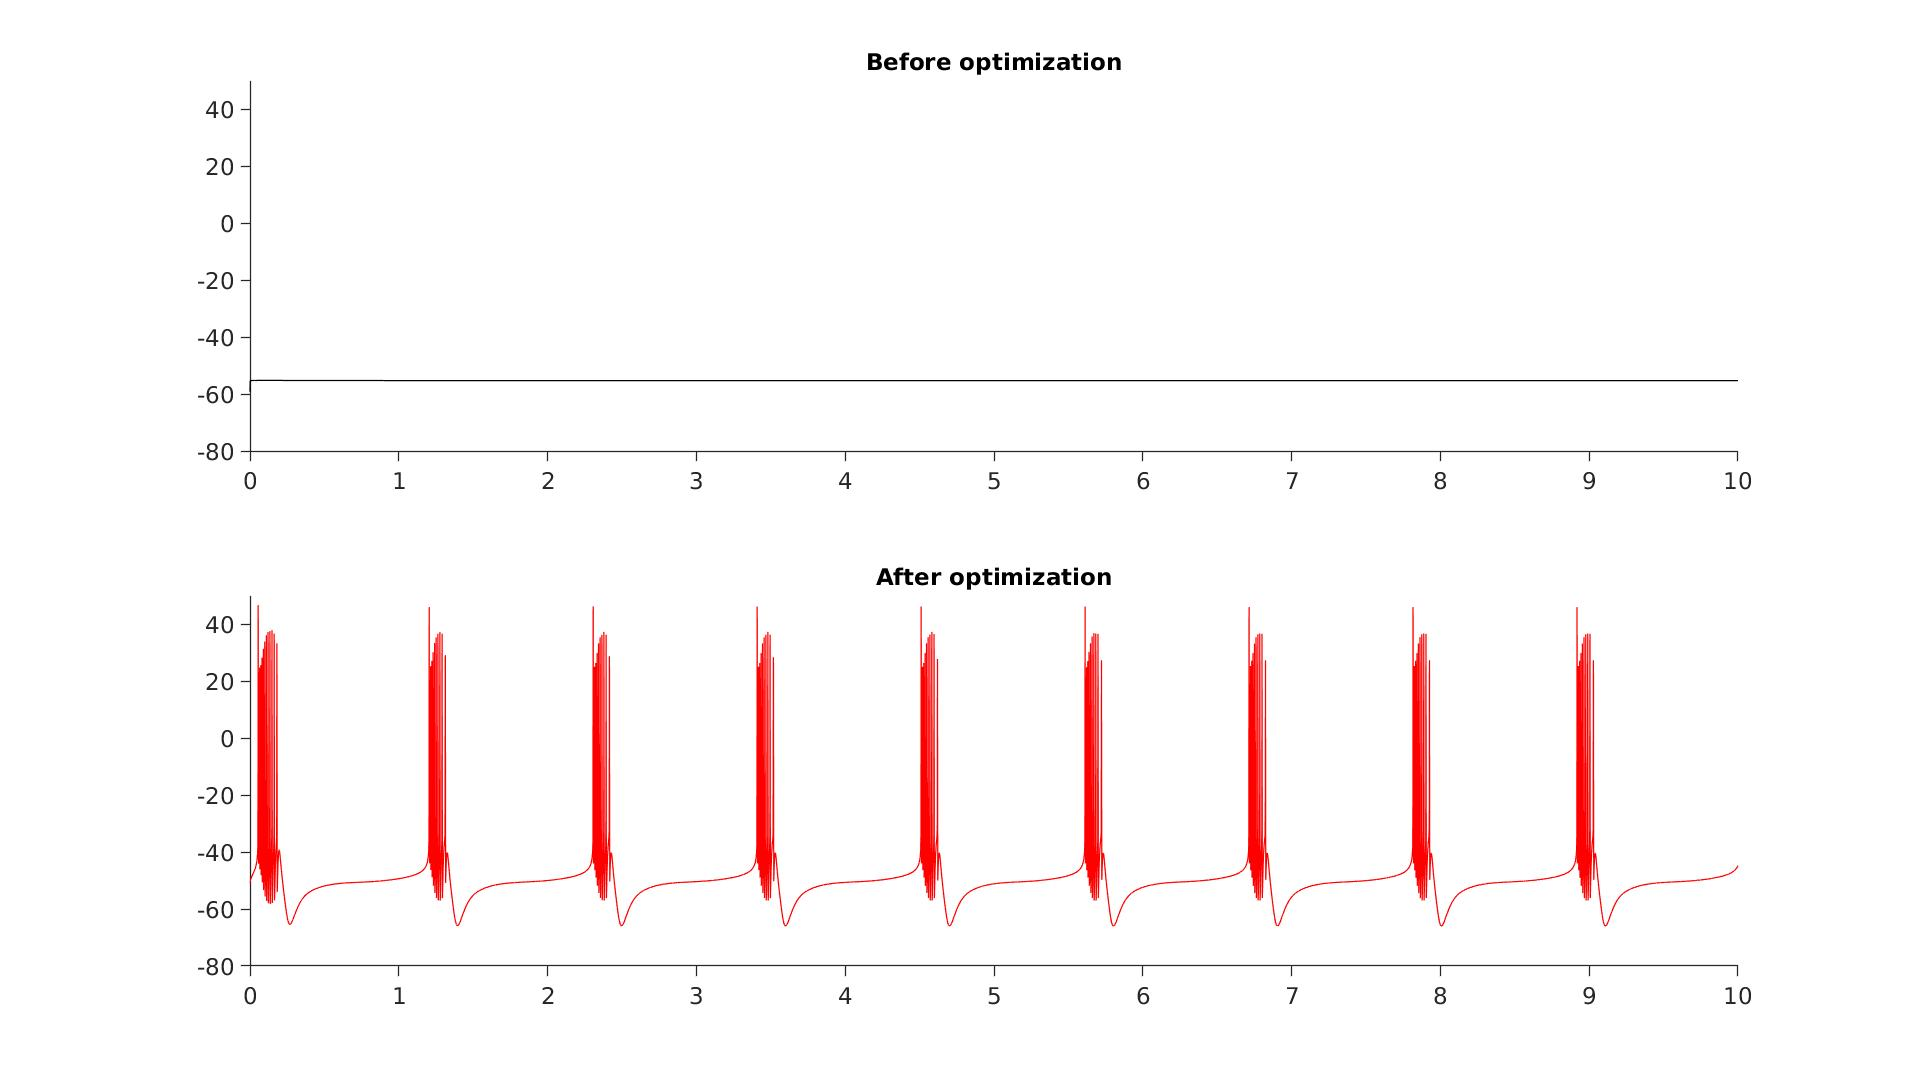
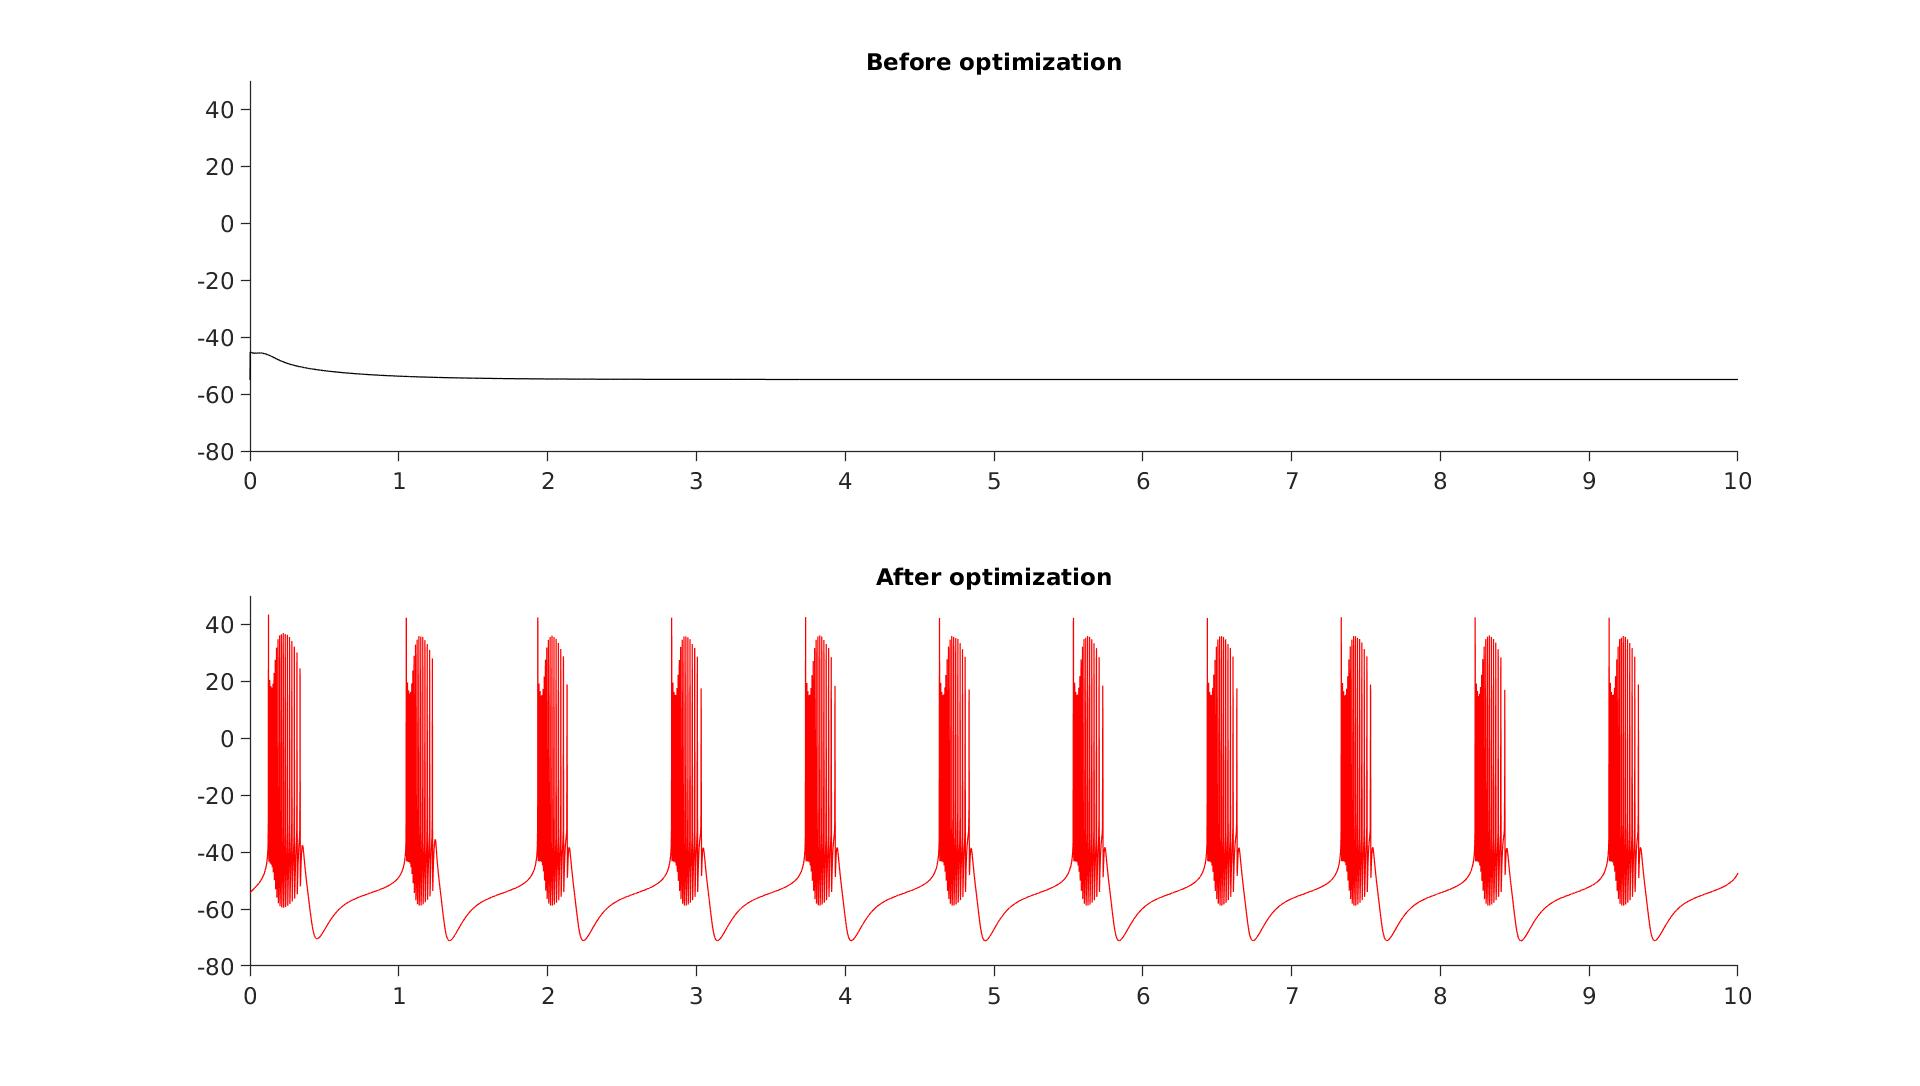
Add burst period variation cost and update weights

Changed region(s): [[0.125, 0.5773, 0.9062, 0.8508], [0.1562, 0.3343, 0.9062, 0.3646]]

diff --git a/+cosmo/burstingCostFcn.m b/+cosmo/burstingCostFcn.m
@@ -2,7 +2,7 @@
 % and computes the burst period and mean spikes per burst
 % then, it returns a cost
 % if the burst period is within [900, 2000] ms, then that part of the cost is zero
-% if the mean spikes per burst is within [2, 20] then that part of the cost is zero
+% if the mean spikes per burst is within [5, 20] then that part of the cost is zero
 % otherwise, the cost is the quadratic difference
 
 function [C, V] = burstingCostFcn(x,~)
@@ -22,11 +22,12 @@ V = x.integrate;
 metrics = xtools.V2metrics(V,'sampling_rate',10);
 
 % accumulate errors
-C = 100*xtools.binCost([900 2000],metrics.burst_period);
-C = C + 100*xtools.binCost([.1 .5],metrics.duty_cycle_mean);
-C = C + 100*xtools.binCost([2 20],metrics.n_spikes_per_burst_mean);
-C = C + 100*xtools.binCost([0 20], metrics.min_V_in_burst_mean - metrics.min_V_bw_burst_mean);
-C = C + 200*xtools.binCost([110 140],x.AB.Ca_average);
+C = 300*xtools.binCost([900, 2000],metrics.burst_period);
+C = C + 100*xtools.binCost([0, .05],metrics.burst_period_std/metrics.burst_period);
+C = C + 200*xtools.binCost([.2, .5],metrics.duty_cycle_mean);
+C = C + 100*xtools.binCost([5, 20],metrics.n_spikes_per_burst_mean);
+C = C + 100*xtools.binCost([0, 20], metrics.min_V_in_burst_mean - metrics.min_V_bw_burst_mean);
+C = C + 300*xtools.binCost([111, 136],x.AB.Ca_average);
 
 % safety -- if something goes wrong, return a large cost
 if isnan(C)
